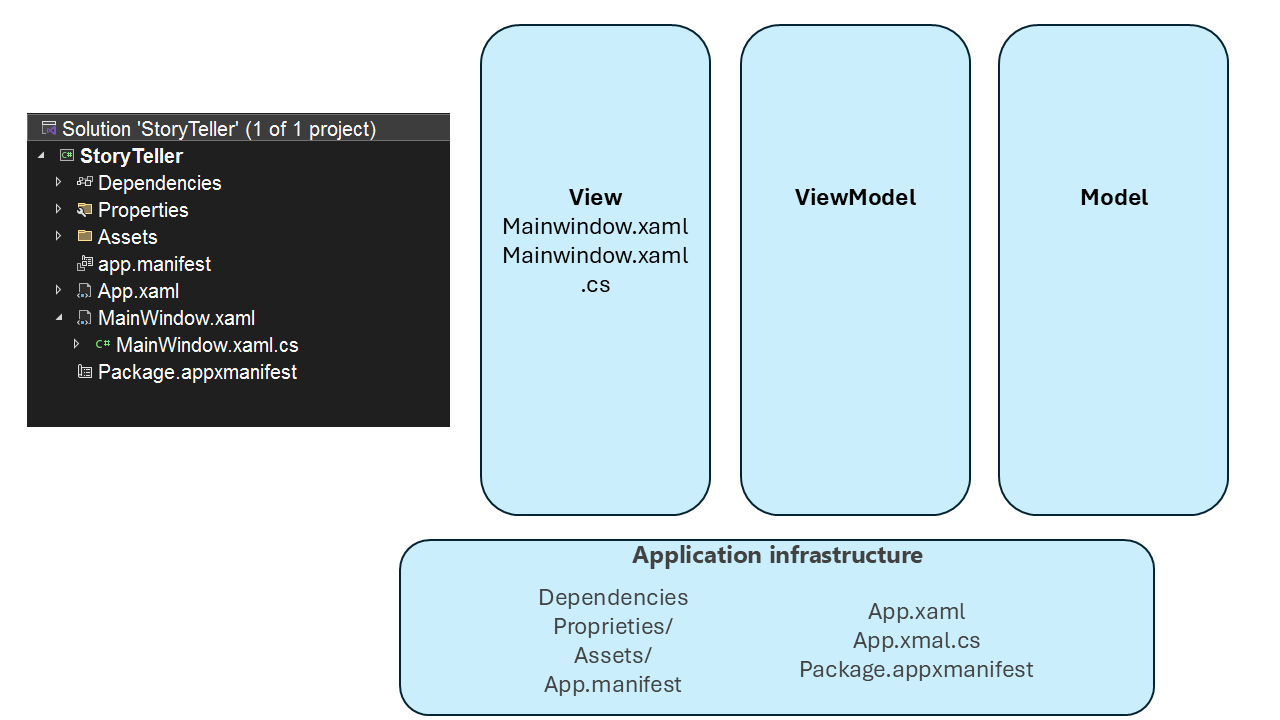
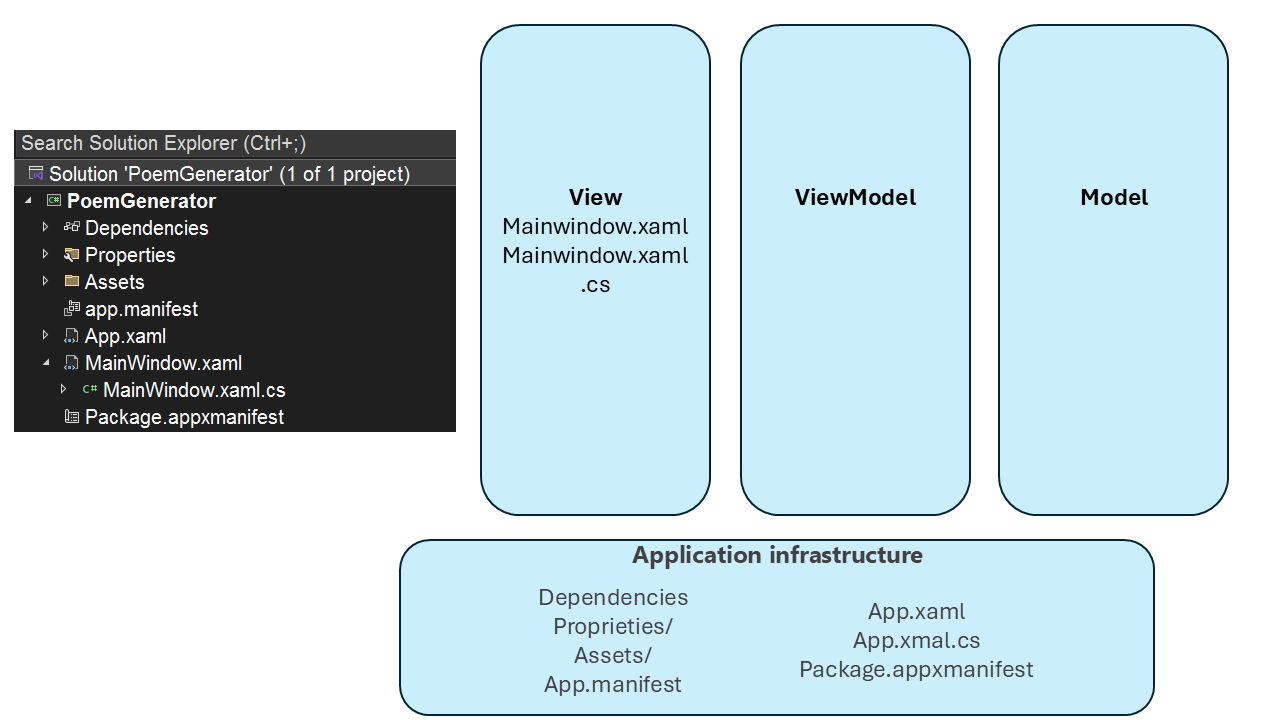
roy maclahlan feedback

Changed region(s): [[0.0, 0.1528, 0.375, 0.6111]]

diff --git a/Tutorials/winui-local-ai/1-instructions.md b/Tutorials/winui-local-ai/1-instructions.md
@@ -2,19 +2,19 @@
 
 Want to build apps for Windows with the latest and greatest capabilities? You’ve come to the right Lab! Today, we’ll build a WinUI app that leverages WCR APIs from start to finish.
 
-This Lab walks you building a windows app using WinUI, the Windows App SDK, Windows Copilot Runtime APIs, and the Windows Community Toolkit. These frameworks and tools provide a foundation for developing high-performance, visually consistent applications that use the latest Windows features and maintain compatibility across devices.
+This lab walks you through building a windows app using WinUI, and Windows AI from the latest Windows App SDK and the Windows Community toolkit.These frameworks and tools provide a foundation for developing high-performance, visually consistent applications that use the latest Windows features and maintain compatibility across devices.
 
 Building Windows apps uses modern frameworks and tools to create software that runs on the Windows operating system. This course introduces you to the WinUi, Windows App SDK, Windows Copilot Runtime APIs, and the Windows Community Toolkit.
 
 ![Diagram of Native Windows Development ](assets/techstack.png)
 
-**WinUI** is a powerful and versatile framework that offers developers a native user experience (UX) for both Windows desktop and Universal Windows Platform (UWP) applications. By incorporating the Fluent Design System into all experiences, controls, and styles, WinUI provides consistent, intuitive, and accessible experiences using the latest user interface (UI) patterns. This means that developers can create visually appealing and highly functional applications that align with modern design principles, ensuring a seamless and engaging user experience.
+**WinUI** is a powerful and versatile framework that offers developers a native user experience (UX) for Windows desktop applications. By incorporating the Fluent Design System into all experiences, controls, and styles, WinUI provides consistent, intuitive, and accessible experiences using the latest user interface (UI) patterns. This means that developers can create visually appealing and highly functional applications that align with modern design principles, ensuring a seamless and engaging user experience.
 
 One of the key advantages of WinUI is its flexibility and compatibility with various development targets. Whether you are building a new application from scratch or migrating an existing [UWP](https://learn.microsoft.com/en-us/windows/uwp/get-started/) (Universal Windows Platform), [WinForms](https://learn.microsoft.com/en-us/dotnet/desktop/winforms/overview/?view=netdesktop-9.0), or [WPF](https://learn.microsoft.com/en-us/windows/apps/get-started/?tabs=cpp-win32%2Cnet-maui#wpf/dotnet/desktop/wpf/overview/?view=netdesktop-9.0) (Windows Presentation Foundation) app, WinUI supports a wide range of languages including C++, C#, Visual Basic, and JavaScript (using React Native for Desktop). This makes it easier for developers to leverage their existing skills and codebases while adopting the latest technologies. Additionally, WinUI is decoupled from the OS and Windows SDKs, allowing for more frequent updates and improvements without being tied to specific Windows releases. This ensures that developers can always access the latest features and enhancements, keeping their applications up-to-date and competitive.
 
-**Windows App SDK (WASDK)** is a comprehensive framework that unifies access to Windows APIs for desktop applications on Windows 11 and Windows 10. It provides developers with a consistent set of tools and libraries to build modern, high-performance applications. One of the standout features of the Windows App SDK is its integration with WinUI 3, the premier native user interface (UI) framework for Windows desktop apps. The WASDK supplies libraries, frameworks, and components for accessing Windows platform functionality in both new and existing desktop apps. You can use these resources with C++ Win32 or C# .NET projects. The SDK supports features such as modern window management, improved text rendering, and application lifecycle management. You can add these features to your app without rewriting existing code.
+**Windows App SDK (WASDK)** is a set of new developer components and tools that unifies access to Windows APIs for desktop applications on Windows 11 and Windows 10. It provides developers with a consistent set of tools and libraries to build modern, high-performance applications. One of the standout features of the Windows App SDK is its integration with WinUI 3, the premier native user interface (UI) framework for Windows desktop apps. The Windows App SDK supplies libraries, frameworks, and components for accessing Windows platform functionality in both new and existing desktop apps. You can use these resources with C++ Win32 or C# .NET projects. The SDK supports features such as modern window management, improved text rendering, and application lifecycle management. You can add these features to your app without rewriting existing code.
 
-The **Windows Copilot Runtime APIs** (WCR APIs) offer a powerful suite of AI-powered features that enable developers to integrate advanced AI capabilities into their applications without the need to find, run, or optimize their own Machine Learning (ML) models. These APIs leverage on-device AI models that run locally and continuously in the background on Copilot+ PCs, ensuring high performance and security. The initial set of APIs includes Phi Silica for language processing, Text Recognition, Image Super Resolution, Image Segmentation, and Image Description. By utilizing these APIs, developers can enhance their applications with features such as text generation, image sharpening, and natural language image descriptions, all running directly on the user's device.
+The **Windows Copilot Runtime APIs** (WCR APIs) offer a powerful suite of AI(Artificial Intelligence)-powered features that enable developers to integrate advanced AI capabilities into their applications without the need to find, run, or optimize their own Machine Learning (ML) models. These APIs leverage on-device AI models that run locally and continuously in the background on Copilot+ PCs, ensuring high performance and security. The initial set of APIs includes Phi Silica for language processing, Text Recognition, Image Super Resolution, Image Segmentation, and Image Description. By utilizing these APIs, developers can enhance their applications with features such as text generation, image sharpening, and natural language image descriptions, all running directly on the user's device. Theses APIs are available through the Windows App SDK.
 
 The **Windows Community Toolkit** is an invaluable resource for developers building applications on Windows. It is a collection of helper functions, custom controls, and app services designed to simplify and demonstrate common developer tasks. The toolkit supports a wide range of development targets, including WinUI 2, WinUI 3, and the Uno Platform, making it a versatile choice for developers working on different types of projects. By leveraging the Windows Community Toolkit, developers can access a rich set of controls and extensions that enhance productivity and streamline the development process.
 
@@ -22,7 +22,7 @@ You use these frameworks and tools together to build Windows apps that are moder
 
 ## Scenario
 
-Jamie has a young child who enjoys hearing a different bedtime story every night. The child often returns home from daycare with new arts and crafts projects, inspiring Jamie to create a more personalized bedtime experience using those projects. Jamie wants an app that uses images of these arts and crafts to generate unique bedtime stories.
+Jamie has a young child who enjoys hearing a different bedtime story every night. The child often returns home from daycare with new arts and crafts projects, inspiring Jamie to create a more personalized bedtime experience using those projects. Jamie wants an app that uses images of these arts and crafts to generate unique poems that she can their young child at bedtime.
 
 At the same time, Jamie is concerned about privacy and wants to ensure that no images of her child or their creations are uploaded to online AI models or external services.
 
@@ -30,7 +30,7 @@ At the same time, Jamie is concerned about privacy and wants to ensure that no i
 
 You will build a Windows app that generates poems from images of children’s arts and crafts, while keeping all data and AI processing on the device for privacy.
 
-The app uses the Windows App SDK and WinUI to provide a modern, intuitive, and accessible user experience. You will design the interface with XAML, use data binding to connect UI elements to data, and apply styles and controls to create an engaging application.
+The app uses the Windows App SDK and WinUI to provide a modern, intuitive, and accessible user experience. You will design the interface with XAML, use data binding to connect User Interface (UI) elements to data, and apply styles and controls to create an engaging application.
 
 To generate poems, you will integrate Windows Copilot Runtime APIs. The app uses the Image Description API to create a detailed description of each arts and crafts image. This narration is then passed to the Phi Silica small language model, which generates unique poems—all running locally on-device for privacy and security.
 
@@ -44,7 +44,7 @@ For this course, we’ll use three key terms -— **View**, **ViewModel**, and *
 
 ![Diagram of MVVM](assets/mvvm-intro.png)
 
-- The **View** term refers to the User Interface (UI) of the application. This View component displays data to users and handles user interactions.
+- The **View** term refers to the UI of the application. This View component displays data to users and handles user interactions.
 - The **ViewModel** term handles presentation logic and transforms data from the Model into a form that the View can easily display.
 - The **Model** term represents the data and business logic of the application.
 

diff --git a/Tutorials/winui-local-ai/2-dev-setup.md b/Tutorials/winui-local-ai/2-dev-setup.md
@@ -1,6 +1,6 @@
 # Dev Set up & Project Structure
 
-This portion takes you through the steps needed to begin setting up your Windows app using the latest Windows development frameworks and tools: WinUI, Windows App SDK, and Community Toolkit.
+This portion takes you through the steps needed to begin creating your Windows app using the latest Windows development frameworks and tools: WinUI, Windows App SDK, and Community Toolkit.
 
 ## Dependencies
 
@@ -75,23 +75,31 @@ To update the Windows App SDK NuGet package for your project to get access to Wi
 1. Click on the **Installed** tab.
 1. Click on **Microsoft.WindowsAppSDK**
 1. Select the **Checkbox** to Include prelease
-1. On the right panel, select the **checkbox** of the **Project** and the **winappsdk1.8-experimental1** and then click **install**
-    1. On the Preview Changes Popup, **Click Apply**.
-    1. On the License Acceptance Popup, **Click I Accept**.
+1. On the right panel:
+    1. select the **checkbox** of the **Project**
+    1. Select from the dropdown  **winappsdk1.8-experimental1** 
+    1. Click **install**
+        1. On the Preview Changes Popup, **Click Apply**.
+        1. On the License Acceptance Popup, **Click I Accept**.
 1. To install the CommunityToolkit NuGet package for your project:
     1. Still in the Manage NuGet Packages for Solution, Click on the **Browse** tab.
     1. Enter **`CommunityToolkit.Mvvm`** in the search bar
     1. **Click to select** `CommunityToolkit.Mvvm`
-    1. **Select** version `8.4.0`
-    1. On the right panel, **Click Install**.
-    1. On the Preview Changes Popup, **Click Apply**.
-    1. On the License Acceptance Popup, **Click I Accept**.
+    1. On the right panel:
+        1. Select the **checkbox** of the **Project**
+        1. **Select** version `8.4.0`
+        1. Click **Install**.
+            1. On the Preview Changes Popup, **Click Apply**.
+            1. On the License Acceptance Popup, **Click I Accept**.
 1. **Close** the  NuGet Package Manager
 
 The Windows Copliot Runtime APIs uses a specifies  version of the .NET runtime and the minimum Windows version that the app targets. Also, the Community Toolkit.Mvvm and uses features that are ahead of the standard C# language version that your project is configured to use by default. You need to update the project's configuration:
 
 1. If Solution Explorer isn't already open, you can open it by selecting **View** > **Solution Explorer** from the top menu.
-1. In the Solution Explorer, you see a tree structure representing your solution and its projects. Look for the project node named **PoemGenerator**. This node is usually a folder icon with the project name next to it.
+1. In the Solution Explorer, you see a tree structure representing your solution and its projects. Look for the project node named **PoemGenerator**. This node is usually a icon of a box with "C#" written inside, the project name next to it.
+
+![Screenshot of Edit Project](assets/edit-project.png)
+
 1. **Right-click** on the project node (**PoemGenerator**) and select **Edit Project File**. This action opens the .csproj file in the editor.
 1. **Locate** the first `PropertyGroup` element in the file
 1. **Add** `<LangVersion>Preview</LangVersion>`
@@ -109,7 +117,7 @@ You can run this blank project:
 
 1. On the title bar, **Click** on **Debug** > **Start Debugging** OR on your keyboard press **F5** key
 
-1. To stop debugging, **Close** the app window, or **Click** the debug "Stop" button in Visual Studio.
+1. To stop debugging, **Close** the app window, or press **Shift + F5** or in Visual Studio, on the title bar, **Click** on **Debug** > **Stop Debugging**
 
 ## The project's file structure
 
@@ -119,7 +127,6 @@ For this course, you modify only the `MainWindow.xaml` and `MainWindow.xaml.cs` 
 
 > **_Note:_**  Not all projects strictly follow the MVVM pattern. Some developers opt for a "code-behind approach," where logic is placed directly in the .xaml.cs file instead of implementing a separate ViewModel. This approach is often referred to as the **"code-behind pattern."**
 
-
 ![Diagram of Project structures organized by MVVM](assets/blank-project-structure.png)
 
 ## Organizing Your Project Files
@@ -128,7 +135,7 @@ To improve maintainability, you create two new folders for organizing your proje
 
 Steps to Create Folders:
 
-1. In Solution Explorer, **right-click** on your project.
+1. In Solution Explorer, **right-click** on **PoemGenerator** (the icon with box containing C# in it).
 1. Select **Add** > **New Folder**.
 1. Name the new folder `Models`.
 1. Repeat steps 1–3 and name the second folder `Pages`.

diff --git a/Tutorials/winui-local-ai/3-build-ui.md b/Tutorials/winui-local-ai/3-build-ui.md
@@ -32,7 +32,7 @@ MainWindow.xaml acts as the root window container hosting navigable Page element
 
 ## Setting Up MainWindow
 
-1. In the Solution Explorer, open `MainWindow.xaml`
+1. In the Solution Explorer, open `MainWindow.xaml` by double clicking
 1. Delete `<StackPanel>` and `<Button>` elements
 1. Add to the Window's element: `<Frame x:Name="MainFrame" />`
 
@@ -53,6 +53,7 @@ MainWindow.xaml acts as the root window container hosting navigable Page element
 ```
 
 1. Open `MainWindow.xaml.cs`
+    1. if you do not see the file, click on the arrow next to `MainWindow.xaml`
 1. Add to the imports:
 
 ```c#
@@ -103,6 +104,7 @@ Next to create the MainPage:
 1. In the Solution Explorer, **Right Click** your new **Pages Folder** > **Add** > **New Item....**  
     - if you do not see **New Item....**, select **Class....**
 1. In the **Add New Item** dialog, select **WinUI** in the template list on the left-side of the window.
+    1. Or on the top right, there is a Search bar, enter **Blank Page (WinUI 3)** 
 1. Select the **Blank Page (WinUI 3)** template.
 1. Name the file **MainPage.xaml**
 1. **Click Add**
@@ -228,7 +230,7 @@ This page is organized into a two-column grid: the left column (fixed width) all
 The XAML includes a two onClick Event, which will need to be handled before you can run and see the project.
 
 1. Open MainPage.xaml.cs
-1. **Under** the MainPage constructor add:
+1. **Under** the MainPage constructor, which is `public MainPage()` add:
 
 ```c#
 private void MenuFlyoutItem_Click(object sender, RoutedEventArgs e)
@@ -276,6 +278,6 @@ Now to test it out:
 
 ![Screenshot of App](assets/base-xmal.png)
 
-You've completed the initial UI construction for the WinUI 3 application. By setting up the main window and structuring the layout with XAML, you've established the foundation for image uploads and poem generation. This visual structure is important for adding functionality and interactivity in the next module.
+You've completed the initial UI construction for your Poem Generating application. By setting up the main window and structuring the layout with XAML, you've established the foundation for image uploads and poem generation. This visual structure is important for adding functionality and interactivity in the next module.
 
 Next [Add Functionality](./4-add-functionality.md)
